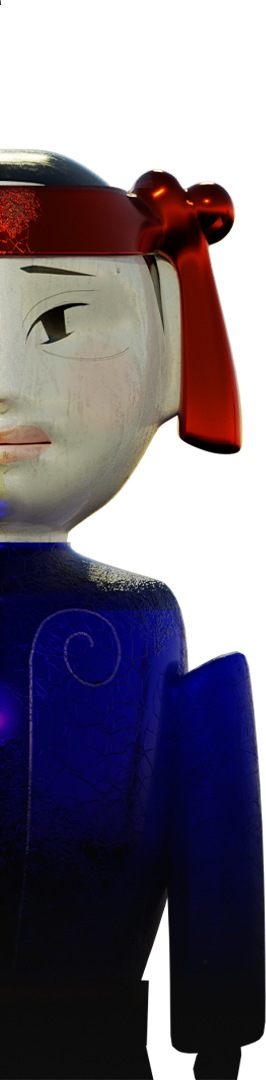
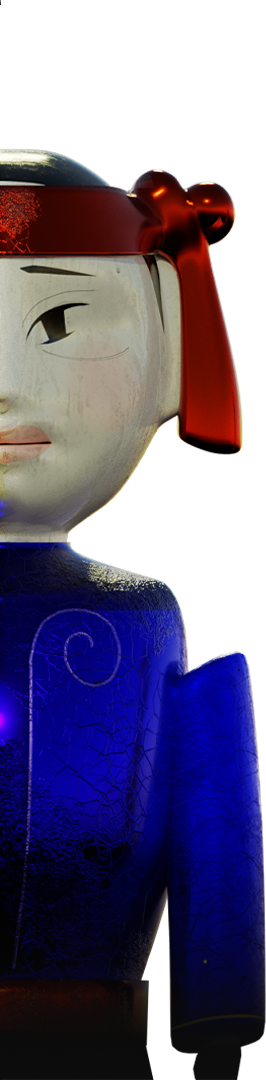
test lại responsive phone

Changed region(s): [[0.0, 0.55, 1.0, 0.9472], [0.2105, 0.8556, 0.3008, 0.8861], [0.0, 0.9167, 0.0301, 0.9472]]

diff --git a/style.css b/style.css
@@ -14,8 +14,7 @@
     display: flex;
     justify-content: center;
     align-items: center;
-    overflow: hidden;
-    padding: 20px;
+    padding: 50px;
 }
 
 
@@ -124,14 +123,17 @@ h2 { /* This is the general H2 for section titles */
             #d6d6d6 60%,
             #a0a0a0 85%,
             #888888 100%);
-    color: transparent;
+    -webkit-text-fill-color: transparent;
     -webkit-background-clip: text;
     background-clip: text;
-    text-shadow:
+    /*text-shadow:
         1px 1px 1px rgba(0, 0, 0, 0.3),
-        -1px -1px 1px rgba(255, 255, 255, 0.4);
+        -1px -1px 1px rgba(255, 255, 255, 0.4);*/
     font-weight: bold;
     font-size: 2.5rem; /* Original global h2 size */
+    padding-left: 20px;
+    padding-right: 20px;
+    line-height: 1.1;
 }
 
 #title { /* This was an ID in your original CSS, likely for a specific H1 if it was text */
@@ -173,7 +175,6 @@ h2 { /* This is the general H2 for section titles */
     flex-direction: column; 
     align-items: center;
     justify-content: center;
-    overflow: hidden;
 }
 
 .hero-content.container {
@@ -211,7 +212,7 @@ h2 { /* This is the general H2 for section titles */
 /* "NUOC MONG WATER.DREAM" logo image */
 .hero-content .logo {
     width: 100%; /* MODIFIED: Make it responsive to its container */
-    max-width: 700px; /* MODIFIED: Set a max-width to prevent it from being too huge on large screens */
+    max-width: 800px; /* MODIFIED: Set a max-width to prevent it from being too huge on large screens */
                      /* Adjust 700px based on your design preference */
     height:auto;
     margin-bottom: 1rem; /* Original */
@@ -221,7 +222,7 @@ h2 { /* This is the general H2 for section titles */
     overflow: hidden; /* This is for the letter animation if you re-enable it, not directly for wrapping */
     display: inline-block;
     white-space: normal; /* Explicitly set to normal to allow wrapping at spaces */
-    font-size: 1.8rem; 
+    font-size: 2.5rem; 
     font-family: 'title'; 
     text-transform: uppercase;
     background-image: linear-gradient(175deg, #ffffff 0%, #ffffff 15%, #e7e7e7 40%, #d6d6d6 60%, #a0a0a0 85%, #888888 100%);
@@ -231,6 +232,7 @@ h2 { /* This is the general H2 for section titles */
     text-shadow: 1px 1px 1px rgba(70, 70, 70, 0.3), -1px -1px 1px rgba(255, 255, 255, 0.4);
     font-weight: bold;
     line-height: 1.2; /* Default line height */
+    margin-bottom:0.2rem;
 
     /* ADD THESE FOR BETTER WORD WRAPPING CONTROL BY DEFAULT (can be overridden by nowrap if needed) */
     word-break: normal; /* Default, but good to be explicit if issues persist */
@@ -263,7 +265,7 @@ h2 { /* This is the general H2 for section titles */
 
 .hero-content h2 { /* This is for the tagline "Where tradition meets..." */
     font-family: 'title-italic'; /* SF-Pro-Display-Thin */
-    font-size: 1.8rem; 
+    font-size: 1.4rem; 
     margin-bottom: 1rem; 
     font-weight: lighter; 
     font-style: normal; 
@@ -271,7 +273,10 @@ h2 { /* This is the general H2 for section titles */
     /* Ensure it doesn't inherit gradient from global h2 */
     background-image: none; 
     -webkit-background-clip: initial; 
+    -webkit-text-fill-color:white;
     background-clip: initial; 
+
+    line-height: 1.1;
     text-shadow: none; /* Original did not have specific shadow here */
 }
 
@@ -380,7 +385,6 @@ nav.inner-nav ul li a.active {
     flex-shrink: 0;
     font-size: 1.3rem;
     font-weight: bold; 
-    margin-top: 1rem; 
     /* font-family: 'Montserrat', sans-serif; /* REMOVED - Let it inherit or use browser default for CTAs if that was original intent */
 }
 .cta-button:hover {
@@ -397,13 +401,13 @@ nav.inner-nav .nav-cta {
 @media (max-width: 992px) {
     html { scroll-padding-top: 60px; } 
     .burger-menu { display: flex; order: 2; }
-    nav.inner-nav { display: none; position: fixed; top: 0; right: 0; width: 50%; height: 60vh; background-color: rgba(0,0,0,.9); flex-direction: column; justify-content: center; align-items: center; z-index: 1000; overflow-y: auto; gap: 20px; transform: translateX(100%); transition: transform .3s ease-in-out; }
+    nav.inner-nav { display: none; position: fixed; top: 0; right: 0; width: 100%; height: 100vh; background-color: rgba(0,0,0,.9); flex-direction: column; justify-content: center; align-items: center; z-index: 1000; overflow-y: auto; gap: 30px; transform: translateX(100%); transition: transform .3s ease-in-out; }
     nav.inner-nav.nav-active { display: flex; transform: translateX(0%); }
     nav.inner-nav ul { flex-direction: column; width: 100%; text-align: center; }
     nav.inner-nav ul li { margin-left: 0; width: 100%; }
     nav.inner-nav ul li a { padding: 15px 20px; font-size: 1.3rem; border-radius: 0; }
     nav.inner-nav ul li:last-child a { border-bottom: none; }
-    nav.inner-nav .nav-cta { margin-top: 15px; width: auto; max-width: 300px; }
+    nav.inner-nav .nav-cta {margin-top: 15px; width: auto; max-width: 300px; }
     .burger-menu.active span:nth-child(1) { transform: rotate(45deg) translate(5px,5px); }
     .burger-menu.active span:nth-child(2) { opacity: 0; }
     .burger-menu.active span:nth-child(3) { transform: rotate(-45deg) translate(7px,-6px); }
@@ -416,7 +420,7 @@ nav.inner-nav .nav-cta {
 
     .hero-price span { 
         white-space: normal !important; /* MODIFIED: Allow price to wrap, !important to ensure it overrides */
-        font-size: 1.1rem; /* Your existing responsive size */
+        font-size: 2.5rem; /* Your existing responsive size */
         line-height: 1.3;  /* Adjust line height if it wraps */
         word-break: normal; /* Ensure it tries to break at spaces first */
         overflow-wrap: break-word; /* Allow breaking words if necessary to prevent overflow */
@@ -428,7 +432,7 @@ nav.inner-nav .nav-cta {
     .hero-cta { 
         width: 80%; 
         max-width: 280px;
-        font-size: 1.1rem; 
+        font-size: 1rem; 
     }
 }
 
@@ -444,7 +448,7 @@ nav.inner-nav .nav-cta {
     height: 135%;
     width: auto;
     z-index: -4; 
-    top: 55%;
+    top: 50%;
     transform: translateY(-50%);
     display: block;
     object-fit: contain; 
@@ -459,8 +463,17 @@ nav.inner-nav .nav-cta {
     width: 100%;
     height:auto; 
     object-fit: cover; 
-    left: 50%;
-    transform: translateX(-50%);
+
+}
+.slide-down-on-load {
+    opacity: 0; /* Bắt đầu ẩn */
+    transform: translateY(-100%); /* Bắt đầu ở vị trí trên cùng (ngoài viewport) */
+    transition: transform 1s ease-out, opacity 0.5s ease-out; /* Thời gian và kiểu chuyển động */
+}
+
+.slide-down-on-load.loaded {
+    opacity: 1;
+    transform: translateY(0);
 }
 
 /* Original responsive rules for these images */
@@ -469,9 +482,9 @@ nav.inner-nav .nav-cta {
     .rem { height: 30%; } 
 }
 @media (max-width: 850px) {
-    .hero-content.container { margin-bottom: -20rem; }
+    .hero-content.container { margin-bottom: 0rem; }
     .hero-content p { font-size: 1rem; margin-bottom: 1rem; }
-    .hero-price span { font-size: 1.6rem; }
+    .hero-price span { font-size: 2rem; }
     .hero-cta { width: 100%; max-width: 300px; } 
     .hero-character { max-height: 100vh; height: 100%; }
     .hero-character-left { left: 0; max-width: 100%; }
@@ -479,13 +492,14 @@ nav.inner-nav .nav-cta {
     .rem { height: 40%; }
 }
 @media (max-width: 620px) {
-    .hero-price span { font-size: 1.35rem; }
+    .hero-price span { font-size: 1.8rem; }
 }
 @media (max-width: 480px) {
-    .hero-content.container { margin-bottom: -20rem; }
+    .hero-content.container { margin-bottom: -7rem; }
     /* .hero-price span { font-size: 1.1rem; } /* Handled above */
-    .hero-content h2 { font-size: 1.5rem; } 
+    .hero-content h2 { font-size: 1rem; } 
     .hero-content p { font-size: 1rem; }
+    .hero-cta { width: 90%; max-width: 300px; } 
     /* .hero-cta { width: 100%; max-width: 300px; } /* Handled above */
     .hero-character { max-height: 90vh; height: 100%; }
     .rem { height: 40%; }
@@ -503,12 +517,12 @@ nav.inner-nav .nav-cta {
 .intro-content-wrapper p { font-size: 1.1rem; line-height: 1.2; box-decoration-break: clone; -webkit-box-decoration-break: clone; color: #fff; text-shadow: 1px 1px 2px #000,0 0 5px rgba(0,0,0,.6); position: absolute; margin: 0; text-align: center; }
 .intro-content-wrapper span { font-family: 'title-bold'; } 
 #still { top: 0; left: 0; right: 0; padding: 50px; width: auto; }
-#appear { bottom: 9%; width: auto; left: 0; right: 0; padding: 100px; line-height: 1.2rem; opacity: 0; transform: translateY(15px); pointer-events: none; transition: opacity .5s ease-in-out,transform .5s ease-in-out; }
+#appear { bottom: 0; width: auto; left: 0; right: 0; padding: 100px; line-height: 1.2rem; opacity: 0; transform: translateY(15px); pointer-events: none; transition: opacity .5s ease-in-out,transform .5s ease-in-out; }
 .intro-content-wrapper p span.highlight-yellow { color: #ff5900; font-weight: bold; box-decoration-break: clone; -webkit-box-decoration-break: clone; text-shadow: none; cursor: pointer; transition: color .3s ease; } 
 .highlight-yellow .letter { display: inline-block; } 
 .intro-content-wrapper p span.highlight-yellow:hover { color: #Fcc427; }
 @media (max-width: 992px) { .intro-content-wrapper p { font-size: 1rem; line-height: 1.2; text-align: center; } .intro-background-image, .intro-foreground-image { position: absolute; left: 0; top: 50%; transform: translateY(-50%); width: 100%; height: 50%; object-fit: cover; } #still { margin-top: 50px; left: 0; right: 0; width: auto; padding: 30px; } #appear { width: auto; margin-bottom: 0; left: 0; right: 0; padding: 30px; } }
-@media (max-width: 767px) { #intro { width: 100%; height: 100vh; } #still { margin-top: 100px; } #appear { margin-bottom: 2rem; } }
+@media (max-width: 800px) { #intro { width: 100%; height: 100vh; } #still { margin-top: 100px; } #appear { margin-bottom: 10rem; } }
 @media (max-width: 500px) { #intro::before, #intro::after { height: 30%; } .intro-background-image, .intro-foreground-image { height: 40%; } }
 
 
@@ -538,18 +552,18 @@ nav.inner-nav .nav-cta {
 #features .feature-item img { display: block; width: 100%; height: auto; object-fit: cover; border-radius: 5px; margin-bottom: 1rem; }
 #features .feature-item .icon-placeholder { display: none; }
 #features .feature-item .feature-text { min-height: 0; overflow: visible; }
-#features .feature-item h3 { font-family: 'title', sans-serif; font-size: 1.7rem; text-transform: uppercase; margin-top: .2rem; margin-bottom: .2rem; position: relative; display: inline-block; background-image: linear-gradient(175deg,#fff 0%,#fff 15%,#e7e7e7 40%,#d6d6d6 60%,#a0a0a0 85%,#888 100%); color: transparent; -webkit-background-clip: text; background-clip: text; text-shadow: 1px 1px 1px rgba(0,0,0,.3), -1px -1px 1px hsla(0,0%,100%,.4); font-weight: 700; padding-left: 22px; }
+#features .feature-item h3 { font-family: 'title', sans-serif; font-size: 1.7rem; text-transform: uppercase; margin-top: .2rem; margin-bottom: .2rem; position: relative; display: inline-block; background-image: linear-gradient(175deg,#fff 0%,#fff 15%,#e7e7e7 40%,#d6d6d6 60%,#a0a0a0 85%,#888 100%);     -webkit-text-fill-color: transparent    ; -webkit-background-clip: text; background-clip: text;  font-weight: 700; padding-left: 22px; }
 #features .feature-item h3::before { content: ""; position: absolute; left: 0; top: 50%; transform: translateY(-50%); width: 12px; height: 12px; background-image: linear-gradient(135deg,#fcc427,#dda200); border: 1px solid #c08e06; box-shadow: 1px 1px 2px rgba(0,0,0,.3); border-radius: 2px; }
 #features .feature-item p { margin-bottom: 0; text-align: justify; line-height: 1.3; max-width: 500px; }
 @media (max-width: 992px) { #features { padding: 50px 100px; } #features .features-grid { gap: 30px; } #features .feature-item h3 { font-size: 1.5rem; } #features .feature-item p { font-size: 1.1rem; max-width: none; } }
-@media (max-width: 767px) { #features { padding: 40px 20px; } #features h2 { margin-bottom: 2rem; } #features .features-grid { grid-template-columns: 1fr; gap: 35px; } #features .feature-item { text-align: center; } #features .feature-item img { margin-left: auto; margin-right: auto; max-width: 85%; height: auto; } #features .feature-item h3 { font-size: 1.5rem; display: block; padding-left: 0; margin-left: auto; margin-right: auto; max-width: -moz-max-content; max-width: max-content; } #features .feature-item h3::before { left: -18px; } #features .feature-item p { text-align: justify; font-size: 1.2rem; max-width: 85%; margin-left: auto; margin-right: auto; } }
-@media (max-width: 480px) { #features { padding: 30px 15px; } #features .features-grid { gap: 30px; } #features .feature-item h3 { font-size: 1.3rem; } #features .feature-item h3::before { left: -16px; width: 10px; height: 10px; } #features .feature-item p { font-size: 1rem; } }
+@media (max-width: 767px) { #features { padding: 40px 20px; } #features h2 { margin-bottom: 2rem; } #features .features-grid { grid-template-columns: 1fr; gap: 35px; } #features .feature-item { text-align: center; } #features .feature-item img { margin-left: auto; margin-right: auto; max-width: 85%; height: auto; } #features .feature-item h3 { font-size: 1.4rem; display: block; padding-left: 0; margin-left: auto; margin-right: auto; max-width: -moz-max-content; max-width: max-content; } #features .feature-item h3::before { left: -18px; } #features .feature-item p { text-align: justify; font-size: 1.2rem; max-width: 85%; margin-left: auto; margin-right: auto; } }
+@media (max-width: 480px) { #features { padding: 30px 15px; } #features .features-grid { gap: 30px; } #features .feature-item h3 { font-size: 1.2rem; } #features .feature-item h3::before { left: -16px; width: 10px; height: 10px; } #features .feature-item p { font-size: 1rem; } }
 @media (max-width: 450px) { #features .feature-item h3 { font-size: 1rem; } #features .feature-item h3::before { left: -16px; width: 10px; height: 10px; } #features .feature-item p { font-size: .9rem; } }
 
 
 /* ===== Trailer Section - Styles for YouTube Facade ===== */
 #trailer.video-section { }
-#trailer .video-container { text-align: center; margin-bottom: 2rem; max-width: 681px; margin-left: auto; margin-right: auto; }
+#trailer .video-container { text-align: center; margin-bottom: 2rem; max-width: 681px; margin-left: auto; margin-right: auto; margin-top: 2.2rem;}
 #trailer .youtube-facade { position: relative; display: inline-block; cursor: pointer; overflow: hidden; border-radius: 5px; width: 100%; aspect-ratio: 16 / 9; background-color: #222; }
 #trailer .youtube-facade img { display: block; width: 100%; height: 100%; object-fit: cover; border-radius: 5px; transition: transform 0.3s ease; }
 #trailer .youtube-facade:hover img { transform: scale(1.05); }
@@ -613,14 +627,15 @@ nav.inner-nav .nav-cta {
 #about .about-item:nth-child(even) .about-text { padding: 40px 0 40px 40px; }
 #about .about-item .about-image img { display: block; width: 100%; height: auto; object-fit: cover; border-radius: 5px; }
 #about .about-item .about-text { max-width: 600px; text-align: justify; color: #fff; line-height: 1.6; }
-#about .about-item .about-text h3 { font-family: title,sans-serif; font-size: 1.7rem; text-transform: uppercase; margin-top: 0; margin-bottom: .5rem; position: relative; display: inline-block; background-image: linear-gradient(175deg,#fff 0%,#fff 15%,#e7e7e7 40%,#d6d6d6 60%,#a0a0a0 85%,#888 100%); color: transparent; -webkit-background-clip: text; background-clip: text; text-shadow: 1px 1px 1px rgba(0,0,0,.3),-1px -1px 1px hsla(0,0%,100%,.4); font-weight: 700; padding-left: 22px; }
+#about .about-item .about-text h3 { font-family: title,sans-serif;text-align: left; font-size: 1.7rem; text-transform: uppercase; margin-top: 0; margin-bottom: .5rem; position: relative; display: inline-block; background-image: linear-gradient(175deg,#fff 0%,#fff 15%,#e7e7e7 40%,#d6d6d6 60%,#a0a0a0 85%,#888 100%);     -webkit-text-fill-color: transparent;    -webkit-background-clip: text; background-clip: text; font-weight: 700; padding-left: 22px; }
 #about .about-item .about-text h3::before { content: ""; position: absolute; left: 0; top: 50%; transform: translateY(-50%); width: 12px; height: 12px; background-image: linear-gradient(135deg,#fcc427,#dda200); border: 1px solid #c08e06; box-shadow: 1px 1px 2px rgba(0,0,0,.3); border-radius: 2px; }
 #about .about-item .about-text p { color: #e0e0e0; margin-bottom: 1rem; line-height: 1.3; }
 #about .about-item .about-text p:last-child { margin-bottom: 0; }
 #about .about-item:nth-child(even) { flex-direction: row-reverse; }
-@media (max-width: 992px) { #about { padding: 50px 0; } #about h2 { margin-bottom: 2.5rem; } #about .about-item { align-items: center; gap: 30px; } #about .about-item:nth-child(odd) .about-image, #about .about-item:nth-child(even) .about-text { padding-left: 30px; padding-top: 30px; padding-bottom: 30px; } #about .about-item:nth-child(even) .about-image, #about .about-item:nth-child(odd) .about-text { padding-right: 30px; padding-top: 30px; padding-bottom: 30px; } #about .about-item:nth-child(odd) .about-image { padding-right: 0; } #about .about-item:nth-child(even) .about-image { padding-left: 0; } #about .about-item:nth-child(odd) .about-text { padding-left: 0; } #about .about-item:nth-child(even) .about-text { padding-right: 0; } #about .about-item .about-text h3 { font-size: 1.5rem; } #about .about-item .about-text p { font-size: 1rem; } }
-@media (max-width: 800px) { #about { padding: 40px 0; } #about h2 { margin-bottom: 2rem; } #about .about-item { flex-direction: column!important; gap: 25px; } #about .about-item::after { background: linear-gradient(to bottom,#000 0%,transparent 10%,transparent 90%,#000 100%); } #about .about-item .about-image, #about .about-item .about-text { flex: none; width: 100%; max-width: 90%; margin-left: auto; margin-right: auto; padding: 25px; min-width: unset; } #about .about-item .about-image { padding-bottom: 0; max-width: 80%; } #about .about-item .about-image img { max-height: 350px; } #about .about-item .about-text { text-align: justify; } #about .about-item .about-text h3 { font-size: 1.4rem; display: block; padding-left: 0; margin-left: auto; margin-right: auto; max-width: -moz-max-content; max-width: max-content; } #about .about-item .about-text h3::before { left: -18px; } #about .about-item .about-text p { font-size: 1rem; text-align: justify; } }
-@media (max-width: 480px) { #about { padding: 30px 0; } #about .about-item { gap: 20px; } #about .about-item .about-image, #about .about-item .about-text { padding: 20px; max-width: 85%; } #about .about-item .about-image img { max-height: 300px; } #about .about-item .about-text h3 { font-size: 1.3rem; } #about .about-item .about-text h3::before { left: -16px; width: 10px; height: 10px; } #about .about-item .about-text p { font-size: .9rem; } }
+@media (max-width: 992px) { #about { padding: 50px 0; } #about h2 { margin-bottom: 2.5rem; } #about .about-item { align-items: center; gap: 30px; } #about .about-item:nth-child(odd) .about-image, #about .about-item:nth-child(even) .about-text { padding-left: 30px; padding-top: 30px; padding-bottom: 30px; } #about .about-item:nth-child(even) .about-image, #about .about-item:nth-child(odd) .about-text { padding-right: 30px; padding-top: 30px; padding-bottom: 30px; } #about .about-item:nth-child(odd) .about-image { padding-right: 0; } #about .about-item:nth-child(even) .about-image { padding-left: 0; } #about .about-item:nth-child(odd) .about-text { padding-left: 0; } #about .about-item:nth-child(even) .about-text { padding-right: 0; } #about .about-item .about-text h3 { font-size: 1.7rem; } #about .about-item .about-text p { font-size: 1rem; } }
+@media (max-width: 500px) { #about { padding: 40px 0; } #about h2 { margin-bottom: 2rem; } #about .about-item { flex-direction: column!important; gap: 25px; } #about .about-item::after { background: linear-gradient(to bottom,#000 0%,transparent 10%,transparent 90%,#000 100%); } #about .about-item .about-image, #about .about-item .about-text { flex: none; width: 100%; max-width: 90%; margin-left: auto; margin-right: auto; padding: 25px; min-width: unset; } #about .about-item .about-image { padding-bottom: 0; max-width: 80%; } #about .about-item .about-image img { max-height: 350px; } #about .about-item .about-text { text-align: justify; } #about .about-item .about-text h3 { font-size: 1.4rem; display: block; padding-left: 0; margin-left: auto; margin-right: auto; max-width: -moz-max-content; max-width: max-content; } #about .about-item .about-text h3::before { left: -18px; } #about .about-item .about-text p { font-size: 1rem; text-align: justify; } }
+@media (max-width: 480px) { 
+    #about { padding: 30px 0; } #about .about-item { gap: 20px; } #about .about-item .about-image, #about .about-item .about-text { padding: 20px; max-width: 85%; } #about .about-item .about-image img { max-height: 300px; } #about .about-item .about-text h3 { font-size: 1rem; } #about .about-item .about-text h3::before { left: -16px; width: 10px; height: 10px; } #about .about-item .about-text p { font-size: .9rem; } }
 
 
 /* ===== System Requirements Section (Original) ===== */
@@ -633,6 +648,14 @@ nav.inner-nav .nav-cta {
 #requirements .requirements-list p { font-size: .9rem; font-weight: 700; margin-top: 1rem; text-align: center; }
 #requirements .requirements-list a { color: #b91c0c; }
 #requirements .requirements-list a:hover { color: #b91c0c; }
+
+@media (max-width: 480px) { 
+    #requirements .requirements-list{
+        margin-left: 30px;
+        margin-right: 30px;
+    }
+}
+
 
 
 /* ===== Community Section (Original) ===== */
@@ -657,7 +680,10 @@ nav.inner-nav .nav-cta {
 }
 /* Specific initial states if needed - KEPT */
 #community .community-intro-text {
+    margin-top: 1rem;
     transform: translateY(25px); 
+    padding-left:20px;
+    padding-right:20px;
 }
 
 #community .social-links {
@@ -667,6 +693,8 @@ nav.inner-nav .nav-cta {
     flex-wrap: wrap;
     justify-content: center;
     gap: 10px;
+    padding-left:20px;
+    padding-right:20px;
 }
 
 #community .social-links a {
@@ -699,6 +727,6 @@ nav.inner-nav .nav-cta {
 footer { background-color: #b91c0c; color: #fff; text-align: center; padding: 80px 0; margin-bottom: 0; margin-top: 43px; }
 footer .container { text-align: center; }
 footer .footer-links { margin-bottom: 10px; display: flex; flex-wrap: wrap; justify-content: center; align-items: center; gap: 15px; font-size: .9rem; }
-footer .footer-links a { color: #fff; padding: 0 5px; text-decoration: none; }
+footer .footer-links a { color: #d8d8d8; padding: 0 5px; text-decoration: none; }
 footer p { margin-bottom: 0; text-align: center; font-size: .9rem; }
 footer .footer-links a:hover { color: #fff; text-decoration: underline; }

diff --git a/index.html b/index.html
@@ -47,26 +47,26 @@
                     <li><a href="#about">About</a></li>
                     <li><a href="#requirements">Requirements</a></li>
                     <li><a href="#community">Community</a></li>
-                </ul>
-                <a href="https://itch.io/your-game-link" class="cta-button nav-cta" target="_blank"
+                    <a href="https://itch.io/your-game-link" class="cta-button nav-cta" target="_blank"
                 rel="noopener noreferrer">Add to Collection!</a>
+                </ul>
             </nav>
         </nav>
     </header>
 
     <main>
-        <img src="images/linh.webp" class="hero-character hero-character-left" alt="Nhân vật Lính - Soldier Character" width="600" height="1200" loading="lazy">
-        <img src="images/vua.webp" class="hero-character hero-character-right" alt="Nhân vật Vua - King Character" width="600" height="1200" loading="lazy">
-        <img src="images/rem.webp" class="rem" alt="Red stage curtains" width="1920" height="500" fetchpriority="high">
+        <img src="images/linh.png" class="hero-character hero-character-left" alt="Nhân vật Lính - Soldier Character" width="600" height="1200" loading="lazy">
+        <img src="images/vua.png" class="hero-character hero-character-right" alt="Nhân vật Vua - King Character" width="600" height="1200" loading="lazy">
+        <img src="images/rem.webp" class="rem slide-down-on-load" alt="Red stage curtains" width="1920" height="500" fetchpriority="high">
 
         <section id="home" class="hero">
             <div class="hero-content container">
-                <img class="logo" src="images/logo.webp" alt="Nuoc Mong Game Title Logo" width="800" height="250">
+                <img class="logo" src="images/logo.png" alt="Nuoc Mong Game Title Logo" width="800" height="250">
                 <h2>Where Tradition Meets Innovation – You're in Control</h2>
-                <p>Uncover the vibrant tapestry of Vietnamese heritage, where centuries-old traditions come to life with
-                    stunning precision. All from the comfort of your PC.</p>
+                <!--p>Uncover the vibrant tapestry of Vietnamese heritage, where centuries-old traditions come to life with
+                    stunning precision. All from the comfort of your PC.</p-->
                 <div class="hero-price">
-                    <span>Available Now for 29.999 VND</span>
+                    <span>ONLY 29.999 VND</span>
                 </div>
                 <a href="https://itch.io/your-game-link" class="cta-button hero-cta" target="_blank"
                     rel="noopener noreferrer">Add to Collection on Itch.io</a>
@@ -84,8 +84,7 @@
                 <p id="still"> Nuoc Mong is an immersive experience that brings Vietnamese water puppetry to life
                     through interactive <span class="highlight-yellow">hand-tracking controls</span>.
                 </p>
-                <p id="appear"> Step into the story as the unseen hand behind the show—guiding puppets, shaping the
-                    world, and influencing the tale. Tradition meets technology in this unique blend of cultural
+                <p id="appear">Tradition meets technology in this unique blend of cultural
                     heritage and modern storytelling.
                 </p>
             </div>

diff --git a/script.js b/script.js
@@ -535,3 +535,14 @@ document.addEventListener('DOMContentLoaded', () => {
 
 
 }); // END OF DOMContentLoaded
+
+
+document.addEventListener('DOMContentLoaded', function() {
+    const imageToAnimate = document.querySelector('.slide-down-on-load');
+    if (imageToAnimate) {
+        // Thêm một chút delay nhỏ để trình duyệt có thời gian "thở" trước khi bắt đầu transition
+        setTimeout(() => {
+            imageToAnimate.classList.add('loaded');
+        }, 100); // 100ms delay, có thể điều chỉnh
+    }
+});
